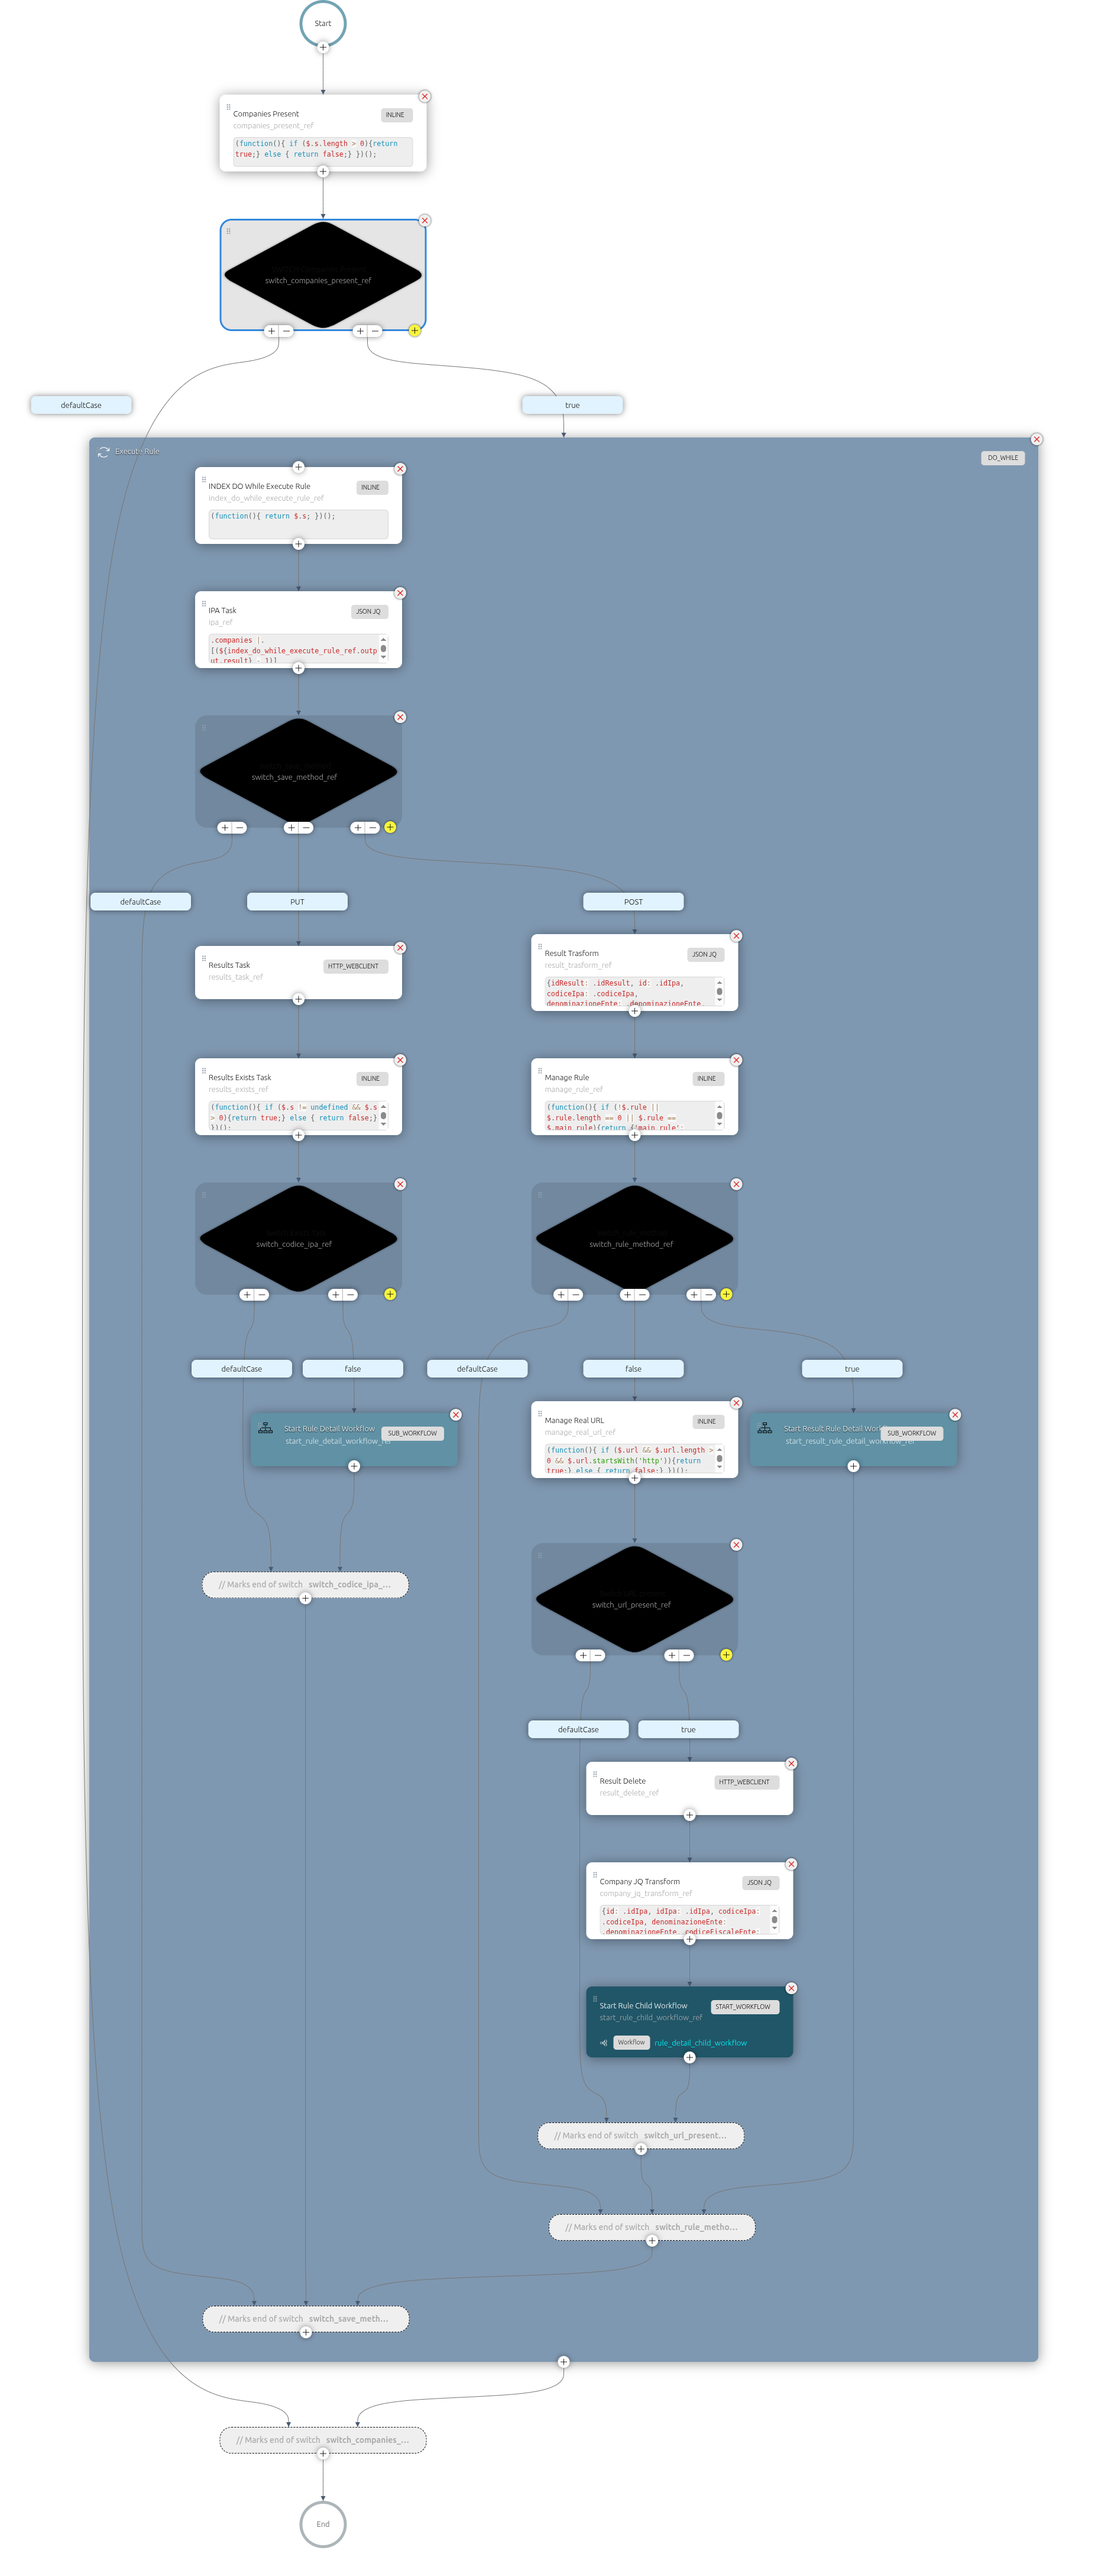
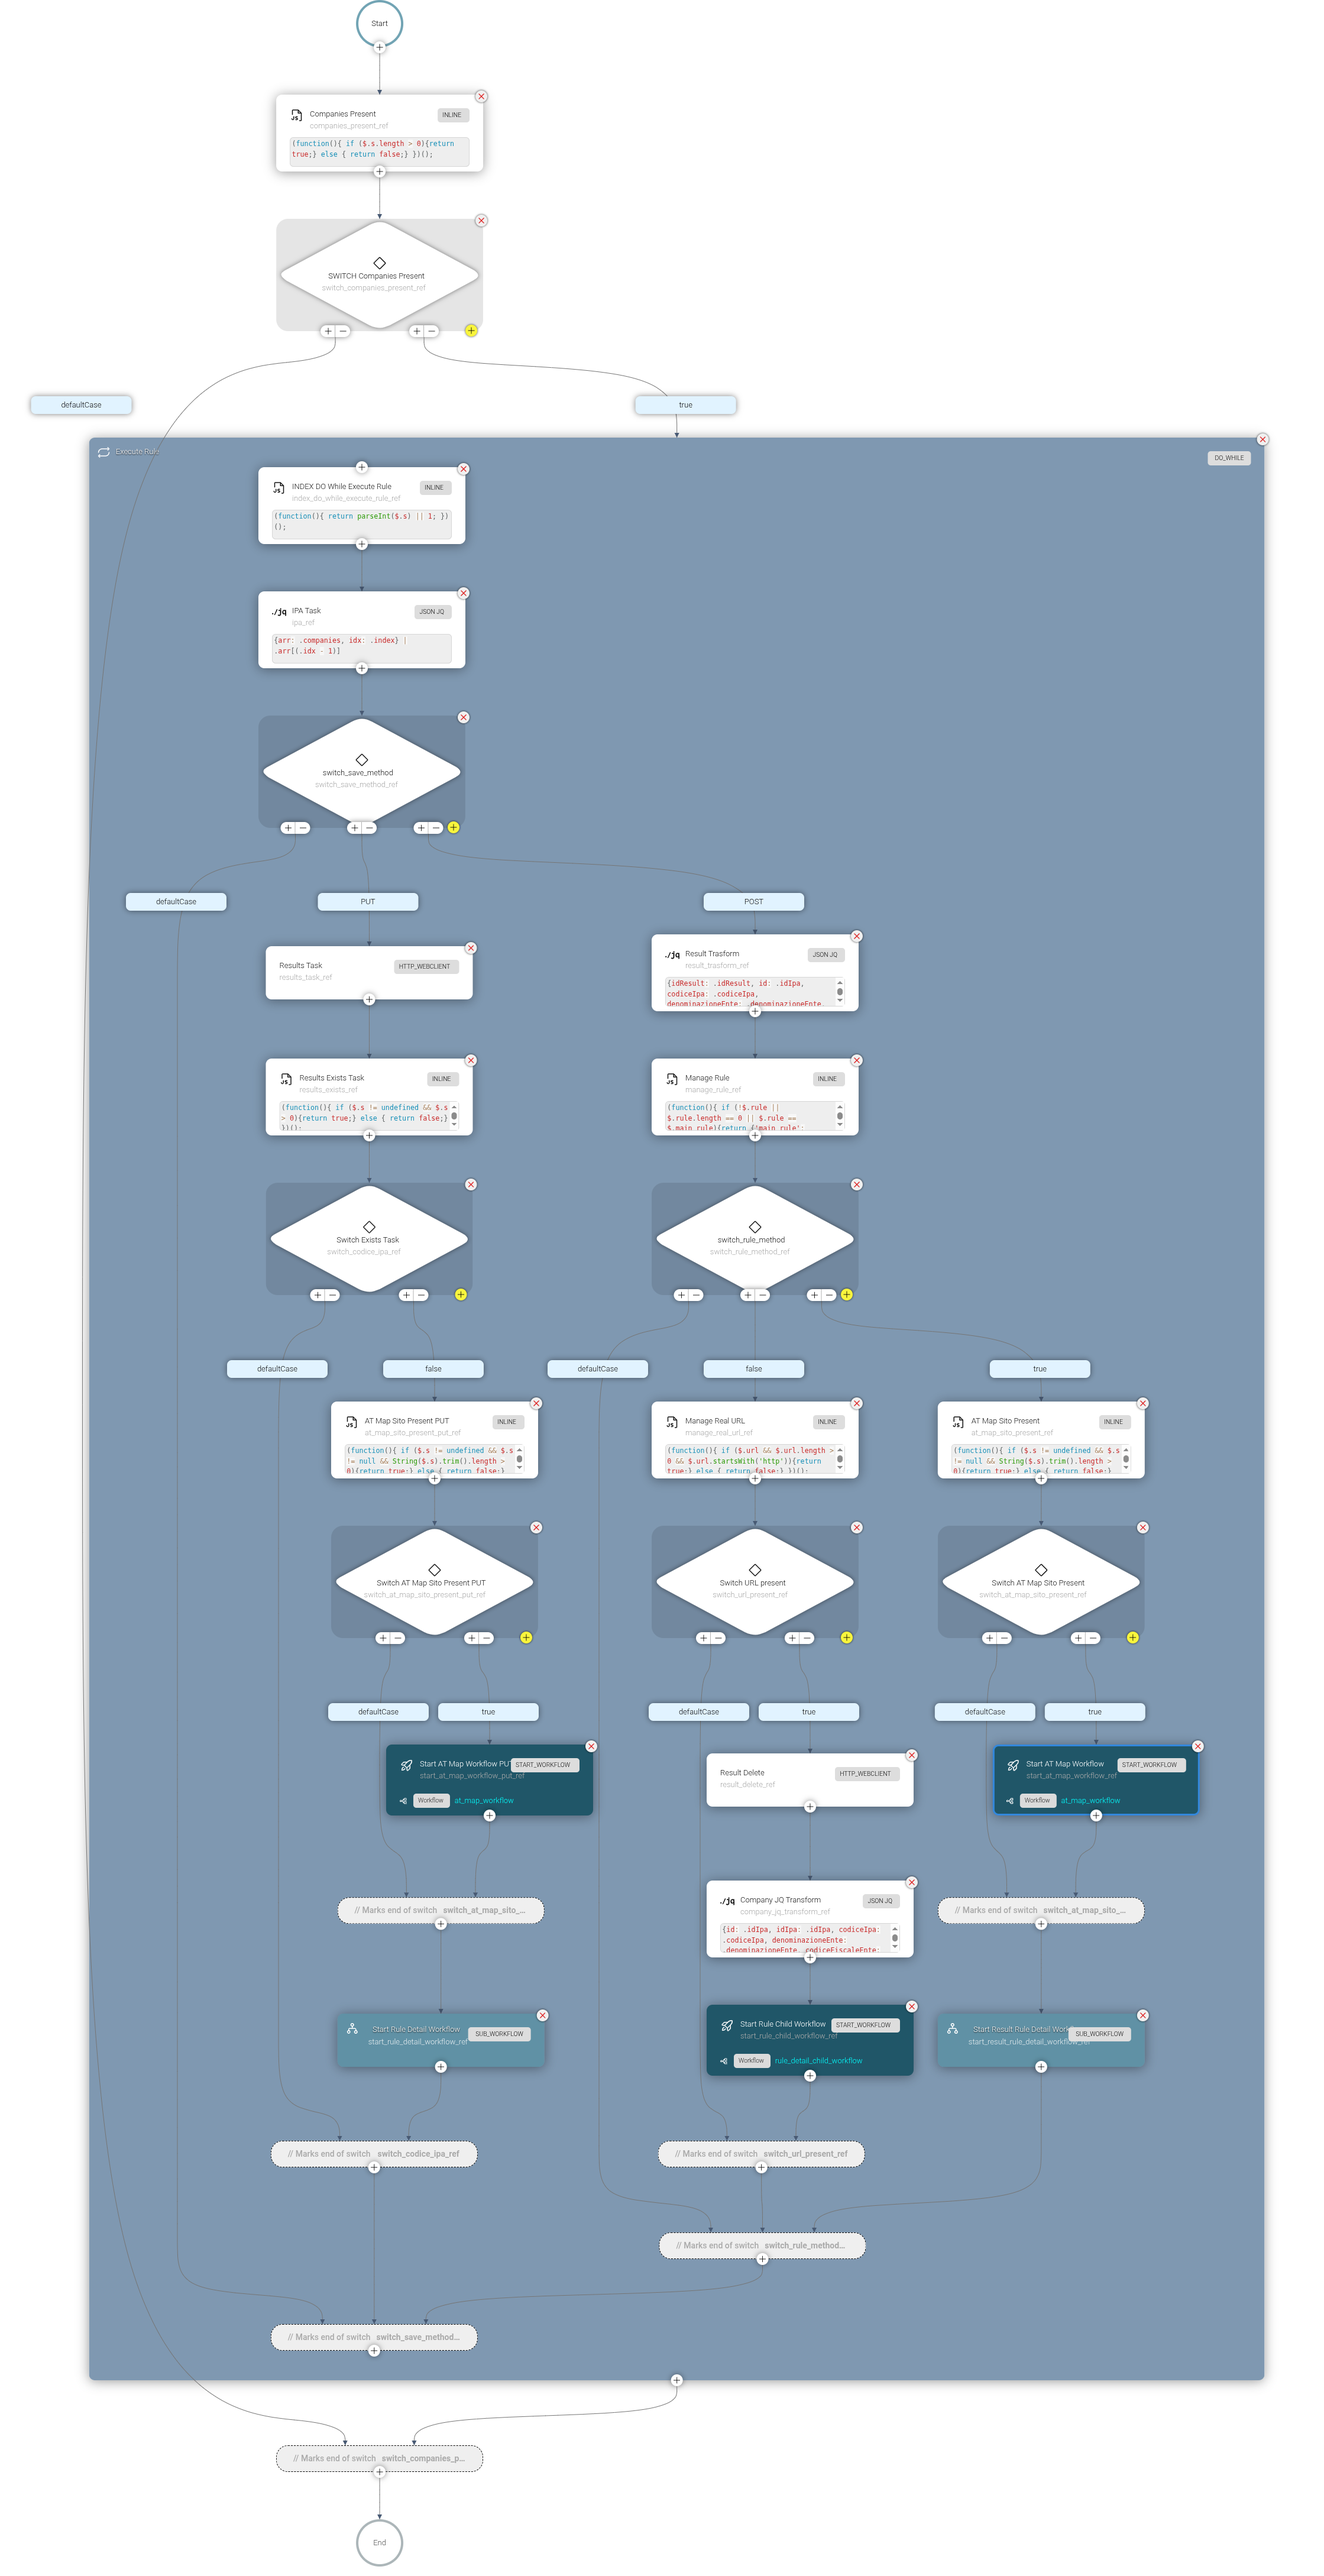
add: Aggiunto il flusso at_map_workflow per la ricerca dell'ATmap ANAC Nuovo flusso at_map_workflow (v2) che cerca il file ATmap del sito istituzionale di una PA e ne salva il contenuto nel result-service: - legge le direttive "ATmap:" del robots.txt (se ce ne sono più di una   preferisce la .xml); 
rule_workflow: avvia at_map_workflow se sitoIstituzionale è presente,
sia nel ramo PUT (esecuzione principale) sia nel ramo POST (retry
dei risultati falliti).

Aggiunto start_at_map_single_pa.sh per avviare il flusso su una
singola PA e aggiornato il README.

diff --git a/README.md b/README.md
@@ -35,7 +35,7 @@ Il flusso [principale](crawler_amministrazione_trasparente.json) necessita dei s
 
 Il primo [TASK](crawler_amministrazione_trasparente.json#L8-L22) del flusso si occupa di invocare l'aggiornamento della configurazione del microservizio delle regole, dopo aver valorizzato la variabile necessaria al controllo delle pagine elaborate, il flusso invoca il [microservizio delle PA](crawler_amministrazione_trasparente.json#L71-L85) e recupera le informazioni necessarie.
 
-Il blocco recuperato contentente le informazioni di *n* PA viene parcellizzato in base al parametro fornito in input **page_size** e diviso per *10*, utilizzando infine il [TASK FORK/JOIN](https://orkes.io/content/reference-docs/operators/fork-join) vengono eseguiti in parallello *10* istanze del flusso [Rule](rule_workflow.json) valorizzando il parametro in input [companies](rule_workflow.json#L278).
+Il blocco recuperato contentente le informazioni di *n* PA viene parcellizzato in base al parametro fornito in input **page_size** e diviso per *10*, utilizzando infine il [TASK FORK/JOIN](https://orkes.io/content/reference-docs/operators/fork-join) vengono eseguiti in parallello *10* istanze del flusso [Rule](rule_workflow.json) valorizzando il parametro in input [companies](rule_workflow.json#L418).
 
 All'uscita del [TASK delle PA](crawler_amministrazione_trasparente.json#L52-L60), se il flusso è stato eseguito non per una singola PA, allora vengono rielaborati i risultati con i codici *400* e *407* con i timeout massimi ed eseguiti i flussi [Crawler Result Failed](crawler_result_failed.json).
 
@@ -47,15 +47,60 @@ Di seguito l'immagine del flusso:
 
 ## RULE DETAIL
 
+Il flusso [Rule](rule_workflow.json), oltre a lanciare il flusso Rule Detail, avvia anche il flusso [AT Map](#at-map) per la stessa PA, se la URL del sito istituzionale è presente. Questo avviene sia nel ramo `PUT` (esecuzione principale, solo per le PA non ancora elaborate) sia nel ramo `POST` (rielaborazione dei risultati falliti da [Crawler Result Failed](crawler_result_failed.json)). Nel secondo caso, il salvataggio dell'ATmap può fallire per il vincolo di unicità se era già stata salvata: l'errore viene ignorato.
+
 Il flusso [Rule Detail](rule_detail_workflow.json) eseguito per una singola PA passata come parametro in input [ipa](rule_detail_workflow.json#L860), controlla inizialmente la [presenza della URL istituzionale](rule_detail_workflow.json#L19-L28) e successivamente invoca il [crawler](rule_detail_workflow.json#L38-L52) il cui risultato viene passato al [microservizio delle regole](rule_detail_workflow.json#L76-L92) la cui risposta è utilizzata come input al [Task dei risultati](rule_detail_workflow.json#L261-L277)    
 
 Di seguito l'immagine del flusso:
 
 ![Rule Detail- Amministrazione Trasparente](rule_detail_workflow.png)
 
+## AT MAP
+
+Il flusso [AT Map](at_map_workflow.json) (versione 2) cerca il file **ATmap** ANAC (mappa dei link di Amministrazione Trasparente) del sito istituzionale di una PA, ne recupera il contenuto e lo salva nel microservizio dei Risultati. Viene avviato in modalità *START_WORKFLOW* da [rule_workflow.json](rule_workflow.json) (vedi sopra) solo se la PA ha una URL del sito istituzionale.
+
+Parametri di input:
+
+| Nome               | Descrizione                                                                         | Vuoto? |
+|--------------------|-------------------------------------------------------------------------------------|--------|
+| ipa                | PA da elaborare (oggetto con almeno *id*, *codiceIpa*, *sitoIstituzionale*)         | No     |
+| parent_workflow_id | Identificativo del flusso padre, usato come *workflowId* del risultato; se vuoto si usa l'id del flusso corrente | Si |
+| connection_timeout | Timeout in millisecondi della connessione                                           | No     |
+| read_timeout       | Timeout in millisecondi della lettura                                               | No     |
+| result_base_url    | URL di base del microservizio dei Risultati                                         | No     |
+| crawler_uri        | URL completo dell'endpoint `/crawl` del microservizio Crawler                       | No     |
+
+Logica di ricerca, in ordine:
+
+1. **robots.txt**: legge `<origine>/robots.txt` del sito istituzionale e cerca le direttive `ATmap:` (URL assoluti o relativi). Se ce ne sono più di una (es. una `.xml` e una `.json`) viene preferita la `.xml`.
+2. **`<origine>/at_map.xml`**: solo se l'ATmap non è stata trovata al punto precedente (o non è valida).
+3. **`<origine>/at_map.json`**: solo se non è stata trovata neppure la `.xml`.
+
+Tutti i file (robots.txt, ATmap dichiarata, `at_map.xml`, `at_map.json`) sono scaricati tramite il [microservizio Crawler](https://github.com/TrasparenzAI/crawler-service) con `crawlingMode: htmlSource`, che restituisce il contenuto in *base64*. Il flusso lo decodifica (UTF-8) e gestisce i casi particolari: contenuto racchiuso in un `<html><pre>…</pre></html>`, formato `b'…'`, recinti di codice ```` ```json ````. Per ogni file viene verificato che il contenuto sia effettivamente **XML** o **JSON** valido (una pagina HTML di errore con codice 200, "soft 404", viene scartata).
+
+Il risultato viene scritto con [PUT /v1/atmaps](https://dica33.ba.cnr.it/swagger-ui/#/ATMap%20Controller/create_2) del microservizio dei Risultati, anche in caso di esito negativo, con i seguenti campi:
+
+| Campo        | Descrizione                                                                          |
+|--------------|--------------------------------------------------------------------------------------|
+| idIpa, codiceIpa | Identificativo e codice IPA della PA                                             |
+| workflowId   | Identificativo del flusso padre (o del flusso corrente)                              |
+| found        | `true` se è stata trovata una ATmap valida                                           |
+| url          | URL da cui è stata letta (o dichiarata nel robots.txt ma non valida)                 |
+| status       | Codice di risposta del crawler                                                       |
+| content      | Contenuto testuale dell'ATmap                                                        |
+| format       | `XML` o `JSON`                                                                       |
+| discoveredBy | `ROBOTS_TXT` (dichiarata nel robots.txt) o `WELL_KNOWN_URL` (`at_map.xml`/`at_map.json`) |
+| valid        | Validità del file                                                                    |
+| errorMessage | Motivo dell'esito negativo (sito istituzionale assente, ATmap non trovata o non raggiungibile) |
+
+Il task di salvataggio è *opzionale*: un suo errore non interrompe il flusso. Il vincolo di unicità del microservizio è `(workflowId, codiceIpa)`.
+
+Output del flusso: `codiceIpa`, `sitoIstituzionale`, `robotsUrl`, `robotsStatus`, `robotsDeclaredUrl(s)`, `atMapStatus` (`FOUND`, `NOT_FOUND`, …), `atMapSource` (`ROBOTS`, `DEFAULT_XML`, `DEFAULT_JSON`), `atMapUrl`, `atMapFormat`, `atMapContent`, `atMapSaved`, `atMapId`.
+
 ## SCRIPT UTILI
 
-- [Inizializzazione del sistema](init.sh) Utilizzato per il SETUP iniziale.
+- [Inizializzazione del sistema](init.sh) Utilizzato per il SETUP iniziale (registra le definizioni dei flussi, compreso [AT Map](at_map_workflow.json); va rieseguito dopo ogni modifica).
 - [Cancella workflow](delete_workflow.sh) Data una lista di workflow itera e cancella i dati
 - [Avvia workflow Totale](start.sh) Avvia un flusso totale con i parametri di default
 - [Avvia workflow per singola Amministrazione](start_single_pe.sh) Avvia il flusso per singola amministrazione indicate nella variabile *arr_pa*
+- [Avvia AT Map per singola Amministrazione](start_at_map_single_pa.sh) Avvia solo il flusso [AT Map](#at-map) per una PA. Parametri: URL del token, client id, client secret, URL di Conductor, codice IPA, sito istituzionale, workflow id
